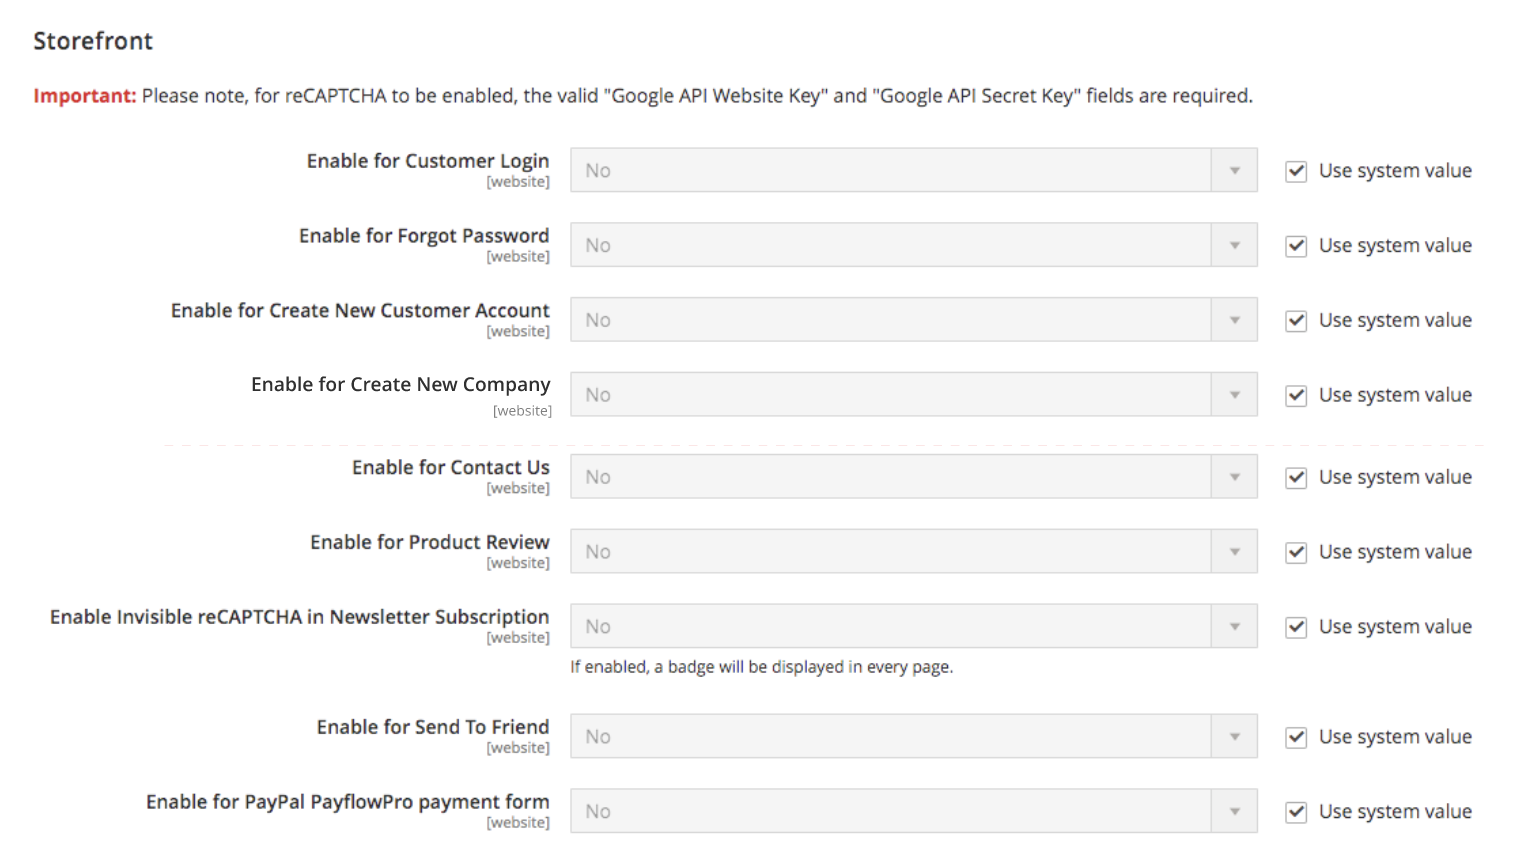
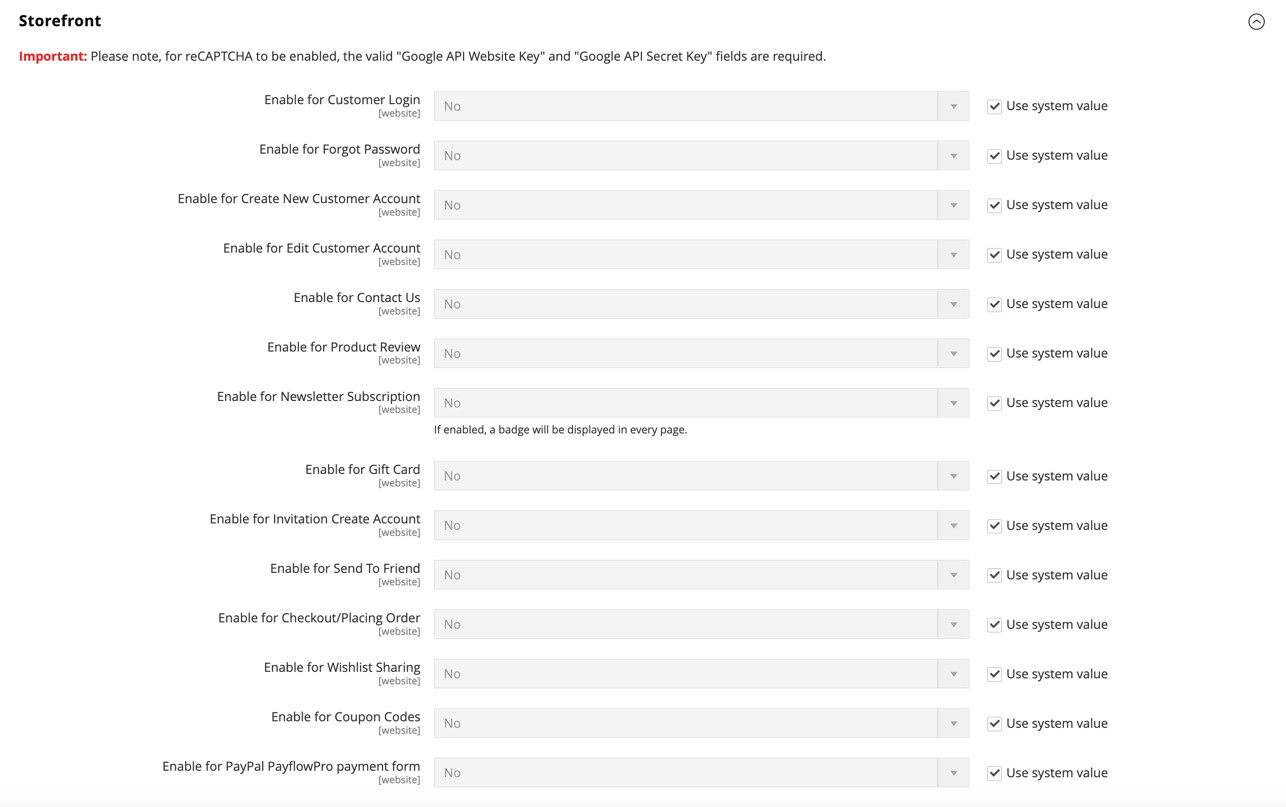
Updates for reCAPTCHA  config
Some updates that were missed previously and additional items that now support reCAPTCHA in 2.4.5 (AC-1144)

diff --git a/src/stores/security-google-recaptcha.md b/src/stores/security-google-recaptcha.md
@@ -62,15 +62,18 @@ Google reCAPTCHA requires a pair of API keys to enable. You can get these keys f
    {:.bs-callout-info}
    **Important!** Not all keys are applicable for all types of reCAPTCHA, and misapplying them could lead to unexpected behavior. For example, Google reCAPTCHA keys generated for _reCAPTCHA v2 "I'm not a robot"_ will not work with _reCAPTCHA v2 Invisible_ and could block functionality where reCAPTCHA is enabled.
 
-## Step 2: Configure Google reCAPTCHA Admin Panel
+## Step 2: Configure Google reCAPTCHA for the Admin
 
-1. Sign in to the Admin account for your store.
+1. Sign in to your Admin account.
 
 1. On the Admin sidebar, go to **Stores** > _Settings_ > **Configuration**.
 
 1. In the upper-right corner, set **Store View** to `Default Config`.
 
 1. In the left panel, expand **Security** and click **Google reCAPTCHA Admin Panel**.
+
+   {:.bs-callout-info}
+   Clear the **Use system value** checkbox for each field that you want to configure.
 
 1. To use _reCAPTCHA v2 ("I am not a robot")_, expand the **reCAPTCHA v2 ("I am not a robot")** section and do the following:
 
@@ -84,9 +87,7 @@ Google reCAPTCHA requires a pair of API keys to enable. You can get these keys f
 
    - For **[Language Code](https://developers.google.com/recaptcha/docs/language)**, enter the two-character code to specify the language used for Google reCAPTCHA text and messaging.
 
-   - For **reCAPTCHA Validation Failure Message**, enter the message to appear if validation fails. Default: You cannot proceed with such operation, your reCAPTCHA reputation is too low.
-
-   ![]({% link configuration/security/assets/google-recaptcha-admin-v2-not-robot.png %}){: .zoom}
+   ![]({% link configuration/security/assets/recaptcha-admin-v2-not-robot.png %}){: .zoom}
    [_reCAPTCHA v2 ("I am not a robot")_]({% link configuration/security/google-recaptcha-admin.md %})
 
 1. To use _reCAPTCHA v2 Invisible_, expand the **reCAPTCHA v2 Invisible** section and do the following:
@@ -101,9 +102,7 @@ Google reCAPTCHA requires a pair of API keys to enable. You can get these keys f
 
    - For **[Language Code](https://developers.google.com/recaptcha/docs/language)**, enter a two-character code that specifies the language that is used for Google reCAPTCHA text and messaging.
 
-   - For **reCAPTCHA Validation Failure Message**, enter the message to appear if validation fails. Default: You cannot proceed with such operation, your reCAPTCHA reputation is too low.
-
-   ![]({% link configuration/security/assets/google-recaptcha-admin-v2-invisible.png %}){: .zoom}
+   ![]({% link configuration/security/assets/recaptcha-admin-v2-invisible.png %}){: .zoom}
    [_reCAPTCHA v2 Invisible_]({% link configuration/security/google-recaptcha-admin.md %})
 
 1. To use _reCAPTCHA v3 Invisible_, expand the **reCAPTCHA v3 Invisible** section and do the following:
@@ -120,44 +119,62 @@ Google reCAPTCHA requires a pair of API keys to enable. You can get these keys f
 
    - For **[Language Code](https://developers.google.com/recaptcha/docs/language)**, enter a two-character code that specifies the language that is used for Google reCAPTCHA text and messaging.
 
-   - For **reCAPTCHA Validation Failure Message**, enter the message to appear if validation fails. Default: You cannot proceed with such operation, your reCAPTCHA reputation is too low.
-
-   ![]({% link configuration/security/assets/google-recaptcha-admin-v3-invisible.png %}){: .zoom}
+   ![]({% link configuration/security/assets/recaptcha-admin-v3-invisible.png %}){: .zoom}
    [_reCAPTCHA v3 Invisible_]({% link configuration/security/google-recaptcha-admin.md %})
 
-1. Expand the **Admin Panel** section.
+1. Expand **reCAPTCHA Validation Failure Messages** and enter the messages that appear in the Admin if validation fails or is unable cannot be completed.
 
-1. Clear the **Use system value** checkbox for each field that you want to configure.  Then, configure the following fields as needed.
+   ![]({% link configuration/security/assets/recaptcha-admin-failure-messages.png %}){: .zoom}
+   [_Failure messages_]({% link configuration/security/google-recaptcha-admin.md %})
+
+1. Expand the **Admin Panel** section and configure the following fields as needed:
 
    - Set **Enable for Login** to the reCAPTCHA type that you want to use for the Admin Sign In page.
 
    - Set **Enable for Forgot Password** to the reCAPTCHA type that you want to use for password reset requests.
 
-![]({% link configuration/security/assets/google-recaptcha-admin.png %}){: .zoom}
-[_Admin Panel_]({% link configuration/security/google-recaptcha-admin.md %})
+   ![]({% link configuration/security/assets/recaptcha-admin-panel.png %}){: .zoom}
+   [_Admin options_]({% link configuration/security/google-recaptcha-admin.md %})
 
-## Step 3: Configure Google reCAPTCHA Storefront
+## Step 3: Configure Google reCAPTCHA for the storefront
 
 1. In the left panel under _Security_, choose **Google reCAPTCHA Storefront**.
 
-1. Complete the section for each reCAPTCHA type that you want to use in the storefront. See the previous instructions for information about each option.
+1. Complete the section for each reCAPTCHA type that you want to use in the storefront.
+
+   See the information in _Step 2: Configure Google reCAPTCHA for the Admin_ for details about the options for each reCAPTCHA type.
+
+1. Expand **reCAPTCHA Validation Failure Messages** and enter the messages that appear in the storefront if validation fails or is unable cannot be completed.
 
 1. Expand the **Storefront** section.
 
-1. Clear the **Use system value** checkbox for each storefront location that you want to enable.
+   {:.bs-callout-info}
+   Clear the **Use system value** checkbox for each field that you want to configure.
 
 1. Set each storefront location field to the type of reCAPTCHA that you have configured to use.
 
    - Enable for Customer Login
    - Enable for Forgot Password
    - Enable for Create New Customer Account
+   - Enable for Edit Customer Account
+   - {:.b2b-only} Enable for Create New Company Account
    - Enable for Contact Us
    - Enable for Product Review
    - Enable for Newsletter Subscription
+   - {:.ee-only} Enable for Gift Card
+   - Enable for Invitation Create Account
    - Enable for Send To Friend
+   - Enable for Checkout/Placing Order
+   - Enable for Wishlist Sharing
+   - Enable for Coupon Codes
    - Enable for PayPal PayflowPro payment form
 
-1. When complete, click <span class="btn">Save Config</span>.
+   ![]({% link configuration/security/assets/recaptcha-storefront.png %}){: .zoom}
+   [_Storefront options_]({% link configuration/security/google-recaptcha-storefront.md %})
+
+## Step 4: Save the configuration
+
+1. When configuration settings are complete, click <span class="btn">Save Config</span>.
 
 1. In the message at the top of the workspace, click **Cache Management** and refresh each invalid cache.
 
